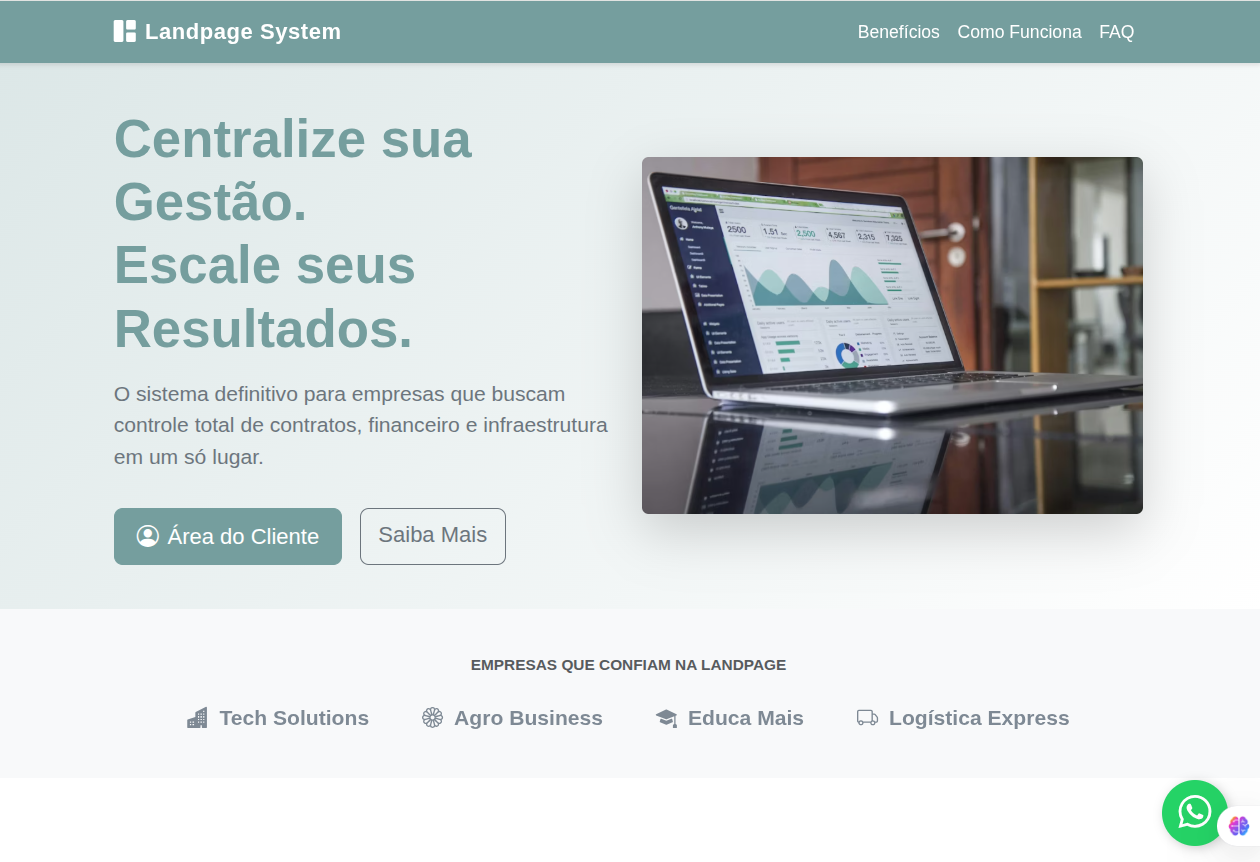
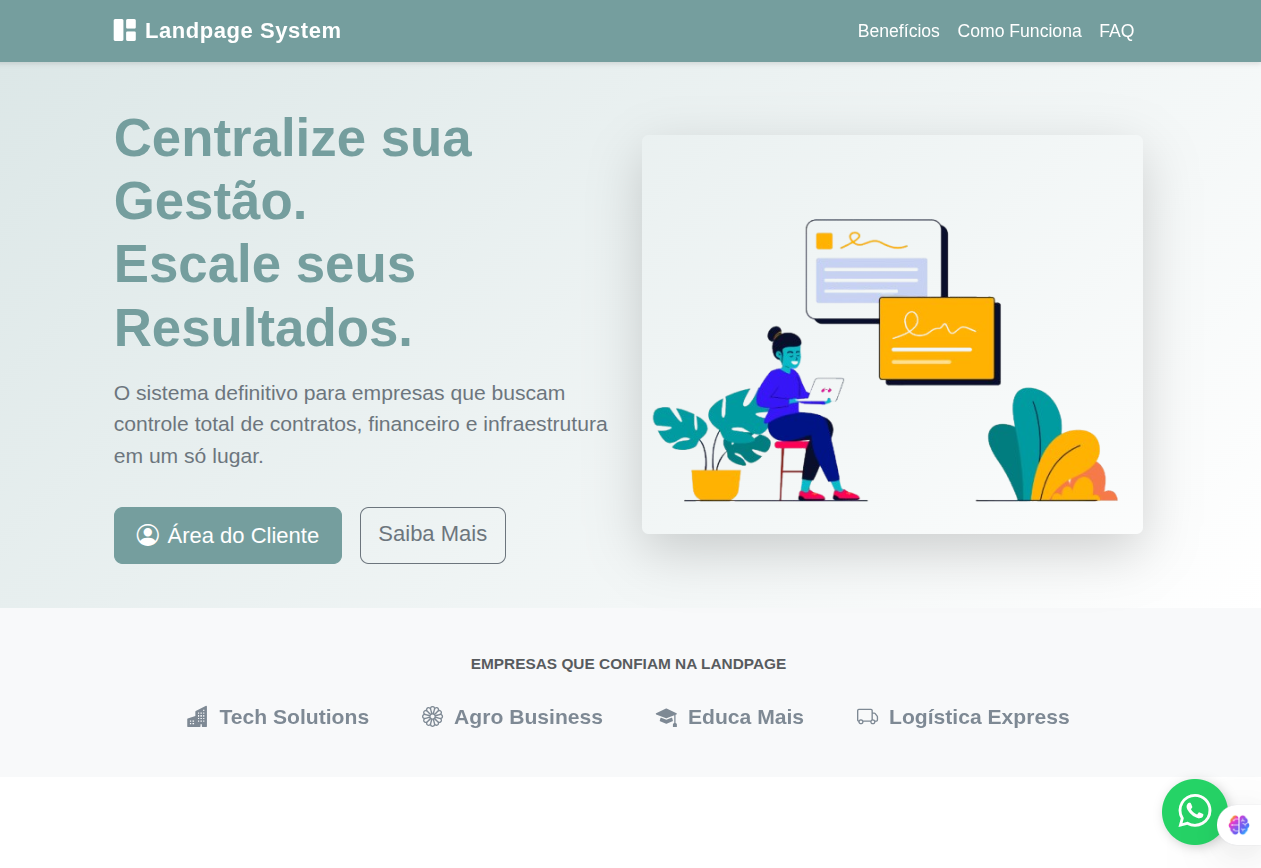
feat: ajustes de imagens tela index.html ...

diff --git a/app/index.html b/app/index.html
@@ -63,7 +63,7 @@
 
                     <!-- Imagem Hero -->
                     <div class="col-lg-6 d-none d-lg-block text-end">
-                        <img src="https://images.unsplash.com/photo-1460925895917-afdab827c52f?ixlib=rb-4.0.3&auto=format&fit=crop&w=800&q=80" alt="Dashboard Preview" class="img-fluid rounded shadow-lg" style="width: 100%; max-width: 600px; height: auto;">
+                        <img src="assets/img/home-office.png" alt="Dashboard Preview" class="img-fluid rounded shadow-lg animate-float" style="width: 100%; max-width: 600px; height: auto;">
                     </div>
                 </div>
             </div>
@@ -87,8 +87,8 @@
             <div class="container">
                 <div class="row align-items-center">
                     <div class="col-lg-6 text-end">
-                        <img src="https://images.unsplash.com/photo-1551288049-bebda4e38f71?ixlib=rb-4.0.3&auto=format&fit=crop&w=1000&q=80" alt="Dashboard Analytics" class="img-fluid rounded shadow" style="width: 100%; max-width: 1000px; height: auto;">
-                    </div>
+                        <img src="assets/img/planilhas.png" alt="Dashboard Preview" class="img-fluid rounded shadow-lg img-hover-effect" style="width: 100%; max-width: 600px; height: auto;">
+                   </div>
                     <div class="col-lg-6 mt-4 mt-lg-0 ps-lg-5">
                         <h2 class="section-title text-start">Cansado de planilhas desconexas?</h2>
                         <p class="lead text-muted">

diff --git a/app/assets/css/style.css b/app/assets/css/style.css
@@ -188,3 +188,23 @@ footer a:hover {
     transform: scale(1.1);
     color: white;
 }
+
+/* Animações de Imagem */
+@keyframes float {
+    0% { transform: translateY(0px); }
+    50% { transform: translateY(-15px); }
+    100% { transform: translateY(0px); }
+}
+
+.animate-float {
+    animation: float 6s ease-in-out infinite;
+}
+
+.img-hover-effect {
+    transition: transform 0.3s ease, box-shadow 0.3s ease;
+}
+
+.img-hover-effect:hover {
+    transform: scale(1.03);
+    box-shadow: 0 1rem 3rem rgba(117, 158, 158, 0.25) !important;
+}
